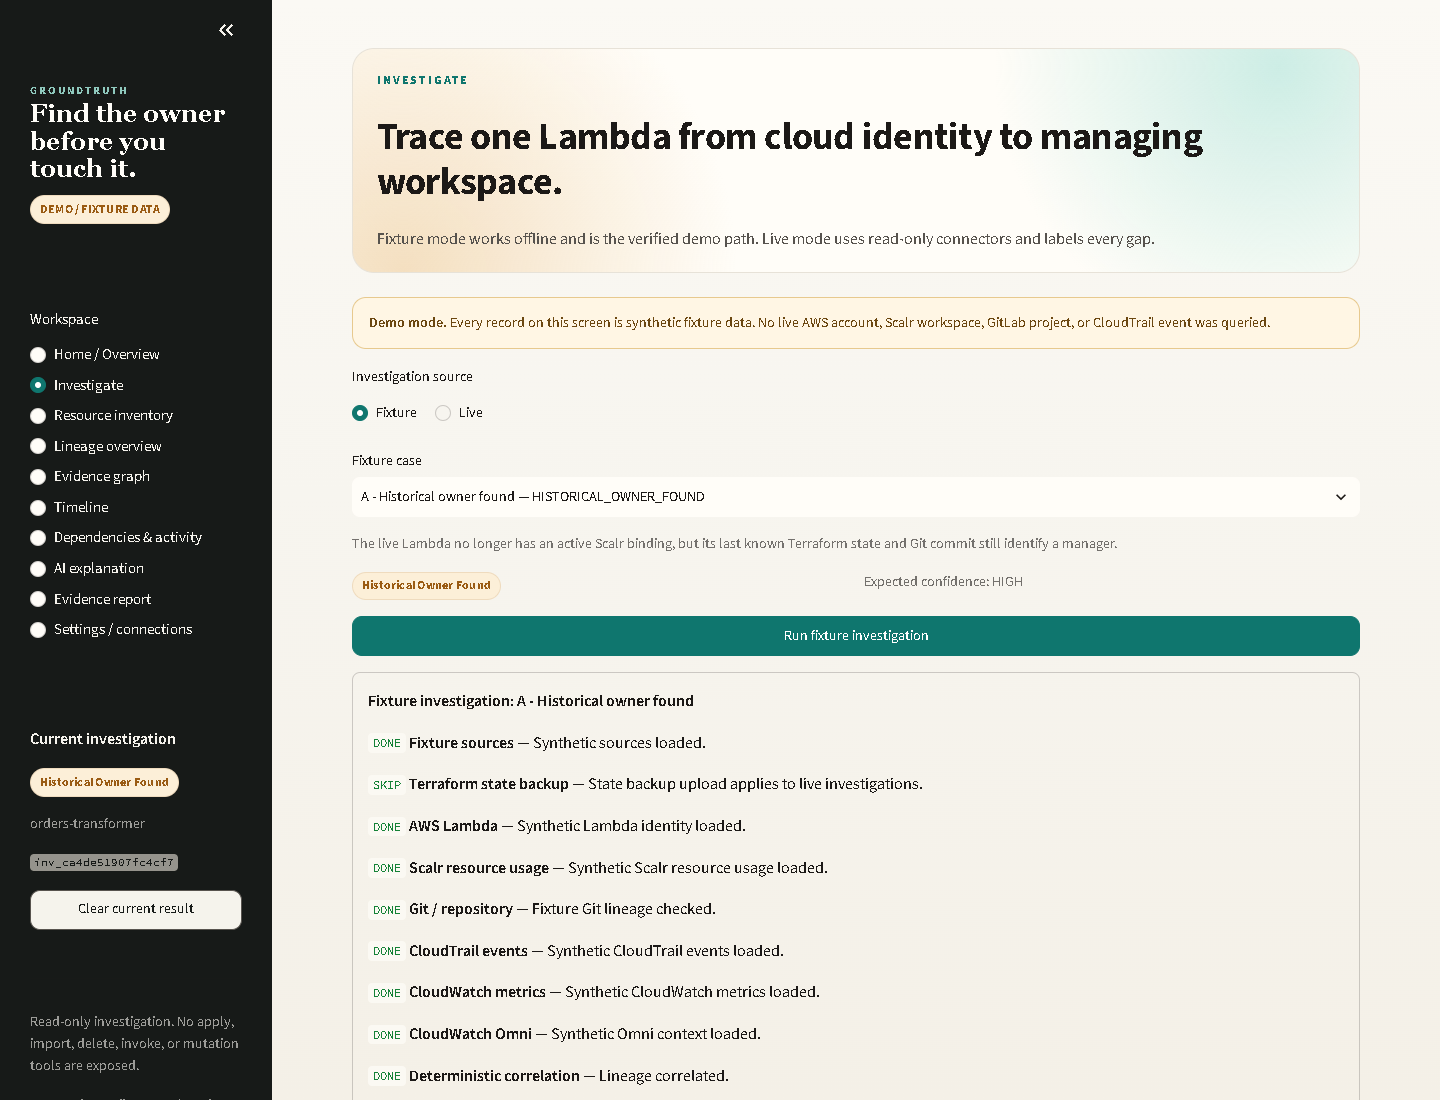
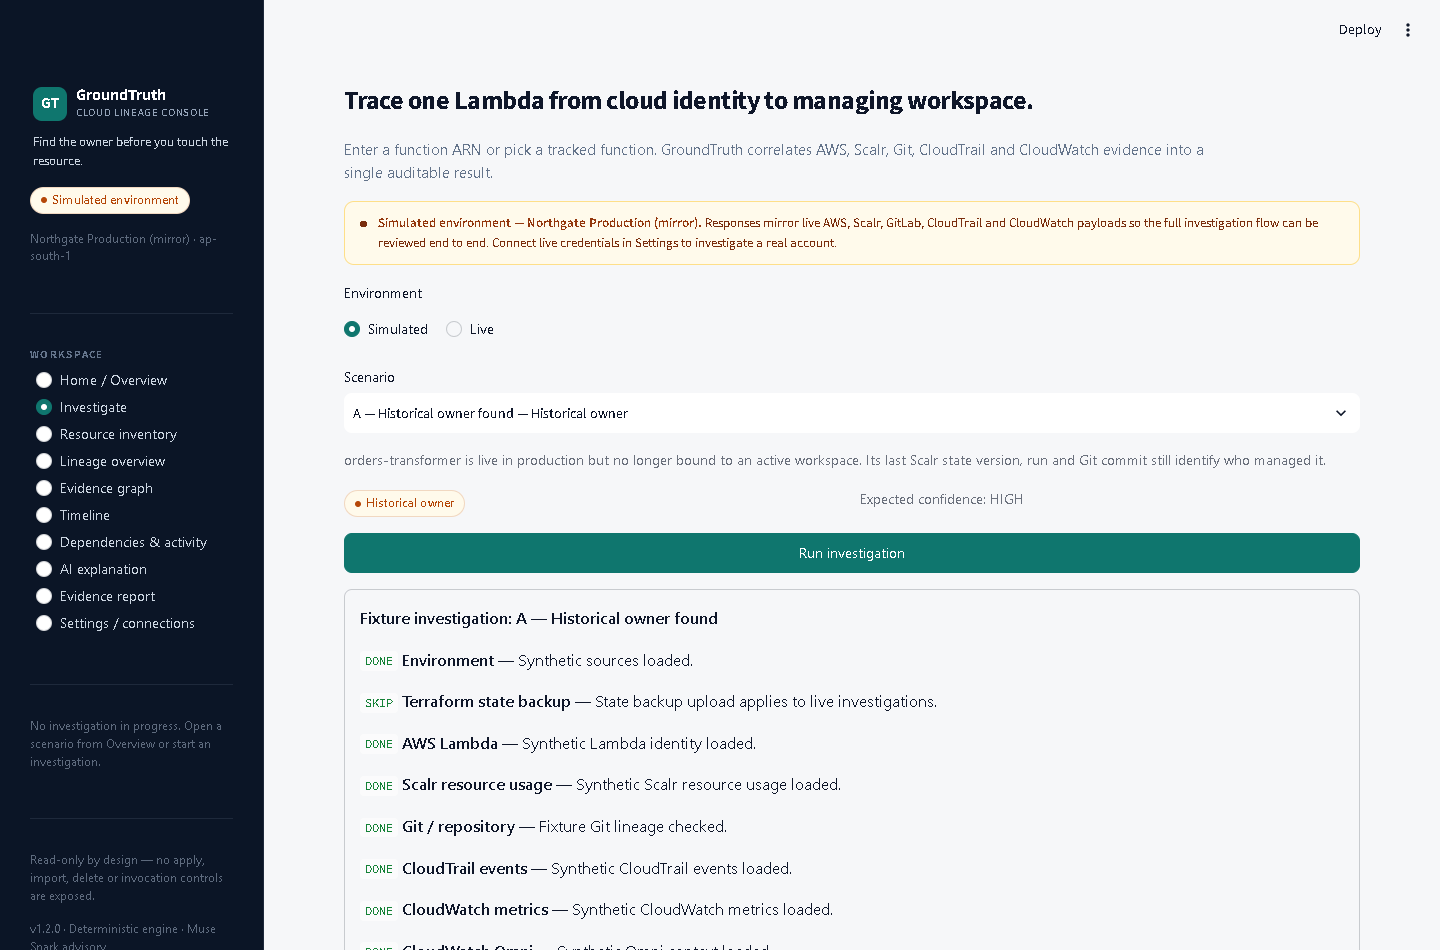
docs: judge-ready submission - 3-minute evaluator path, rubric map, live demo script, fresh UI screenshots

diff --git a/groundtruth/app.py b/groundtruth/app.py
@@ -75,7 +75,7 @@ def _sidebar() -> None:
     else:
         st.sidebar.caption("No investigation in progress. Open a scenario from Overview or start an investigation.")
     st.sidebar.markdown("---")
-    st.sidebar.caption("Read-only by design — no apply, import, delete or invocation controls are exposed.")
+    st.sidebar.caption("Investigations are read-only. Changes happen only in the governed Action Center — planned, confirmed, audit-logged.")
     st.sidebar.caption(f"v{settings.version} · Deterministic engine · Muse Spark advisory")
 
 

diff --git a/docs/DEMO.md b/docs/DEMO.md
@@ -1,0 +1,26 @@
+# GroundTruth — 3-minute live demo (judge-proof)
+
+Runs fully offline in the simulated Northgate Production mirror; every step also works live.
+Rehearse once with `streamlit run app.py`. Total: ~3:00. Fallbacks noted per step — nothing here can dead-end.
+
+## Script
+
+**0:00 — Problem (Overview).** "A Lambda is running in production. Nobody can find its owner. Guessing wrong means fighting state or deleting the wrong thing. GroundTruth finds the evidence before you touch the resource." Point at the fleet KPIs and *Needs attention* list. *(Meta beat: "The AI explains. Deterministic code decides.")*
+
+**0:25 — Investigate (Case A).** Click **Open investigation: A — Historical owner found**. While stages run: "AWS identity, Scalr state history, the run, its exact Git commit, CloudTrail, CloudWatch — correlated by exact ARN, never by name similarity."
+
+**0:50 — Verdict (Lineage overview).** "Historical owner found, high confidence — and the UI shows *why*: workspace `prod-orders`, state version, run actor, verified commit SHA. Note the three different identities — run actor, Git author, CloudTrail principal. GroundTruth never collapses them into 'the creator'." Scroll to **Adoption proposal**: "A reviewable import block, generated deterministically." Open **Action Center**: "Reattribute or retire — planned, typed confirmation, audit-logged."
+
+**1:35 — Proof (Evidence graph + Timeline).** "Every edge carries an evidence ID. Solid is exact, dotted is candidate. Click any node — it traces to the source record." *(Fallback: tables under the graph show the same data.)*
+
+**1:55 — Meta AI (AI explanation).** "Muse Spark explains the same evidence. Every fact cites an evidence ID — the backend validates them; invent one and it's rejected. With no key, you get this deterministic fallback instead — the product never depends on the model." If a key is configured, click **Regenerate explanation** and show `muse-spark-1.3` + tool calls. Mention: "Or bring your own Llama open-weights endpoint — same guarantees."
+
+**2:25 — Safety (Case B).** Open **B — Multiple active owners**. "Two workspaces claim the same ARN. Adoption is hard-blocked. This refusal is the feature — it's what stops a duplicate-state outage." Try Delete in the Action Center and show the block reason.
+
+**2:45 — Close (Overview + Report).** Run the **automation sweep**: "Historical owners get reattributions prepared automatically; disputes queue for humans." Open **Evidence report**, download the bundle: "Checksummed, redacted, portable. GroundTruth: find the owner before you touch the resource."
+
+## If something misbehaves live
+
+- Model slow/unavailable → the deterministic fallback is already on screen; narrate it as designed behavior.
+- Clicks lag → stay on the current page and use its tables; every page renders the same investigation.
+- Asked "is this real data?" → "Simulated tenant, production payload formats — deliberately, so you can verify the logic. Live mode connects from Settings with pasted credentials; the code paths are identical."

diff --git a/README.md b/README.md
@@ -10,6 +10,18 @@ The deterministic engine owns the status and confidence. Meta Muse Spark can exp
 
 ![GroundTruth overview](docs/images/home.png)
 
+> ### For judges — evaluate in 3 minutes
+> **Stage 1 (theme + Meta AI):** Built for the Meta Global AI Developer Hackathon around **Meta Muse Spark (`muse-spark-1.3`, Meta Model API — live-verified, see `docs/DELIVERY_REPORT.md`)** with a bounded, read-only **tool-calling loop**: the model requests evidence tools, every factual claim must cite a validated evidence ID, and invalid output falls back deterministically. Prefer open weights? Switch Settings → AI provider to **Llama** on any OpenAI-compatible endpoint — identical grounding guarantees. No chatbot wrapper: the model explains, deterministic code decides.
+> **Click path (offline-safe, ~3 min):** `streamlit run app.py` → **Open investigation: A — Historical owner found** → **Lineage overview** (owner, run, commit, adoption preview, Action Center) → **Evidence graph** → **AI explanation** (cited facts; regenerate live if a key is set) → **Evidence report** (download the checksummed bundle) → back on **Overview**, run the **automation sweep**. Then try **B — Multiple active owners** for the hard stop. Full narration: [`docs/DEMO.md`](docs/DEMO.md).
+>
+> | Rubric lens | Where to verify | Evidence |
+> | --- | --- | --- |
+> | Meta AI depth | AI explanation page; `groundtruth/ai/` | Tool loop with budgets/allowlist, citation validation, fallback; Llama option |
+> | Innovation | Lineage engine; scenario B/G | Exact-identity ownership graph, duplicate hard stop, cross-account guardrail — not another inventory/chatbot |
+> | Impact | Overview "Needs attention"; Action Center | Prevents duplicate-state outages; governed reattribute/retire with audit log |
+> | Technical quality | `python -m pytest -q` (140+ tests) | Deterministic statuses, checksummed exports, redaction, Docker, CI |
+> | Completeness | All 10 pages; 8 scenarios | Every terminal status covered; live mode from UI credentials; works with AI off |
+
 > **Simulated environment (default).** The console opens against the Northgate Production mirror — payloads shaped like live AWS, Scalr, GitLab, CloudTrail and CloudWatch responses (real-format ARNs, workspace/run IDs, commit SHAs, principal ARNs). No live account is queried until live mode is configured and its connection test succeeds.
 
 ## The problem
